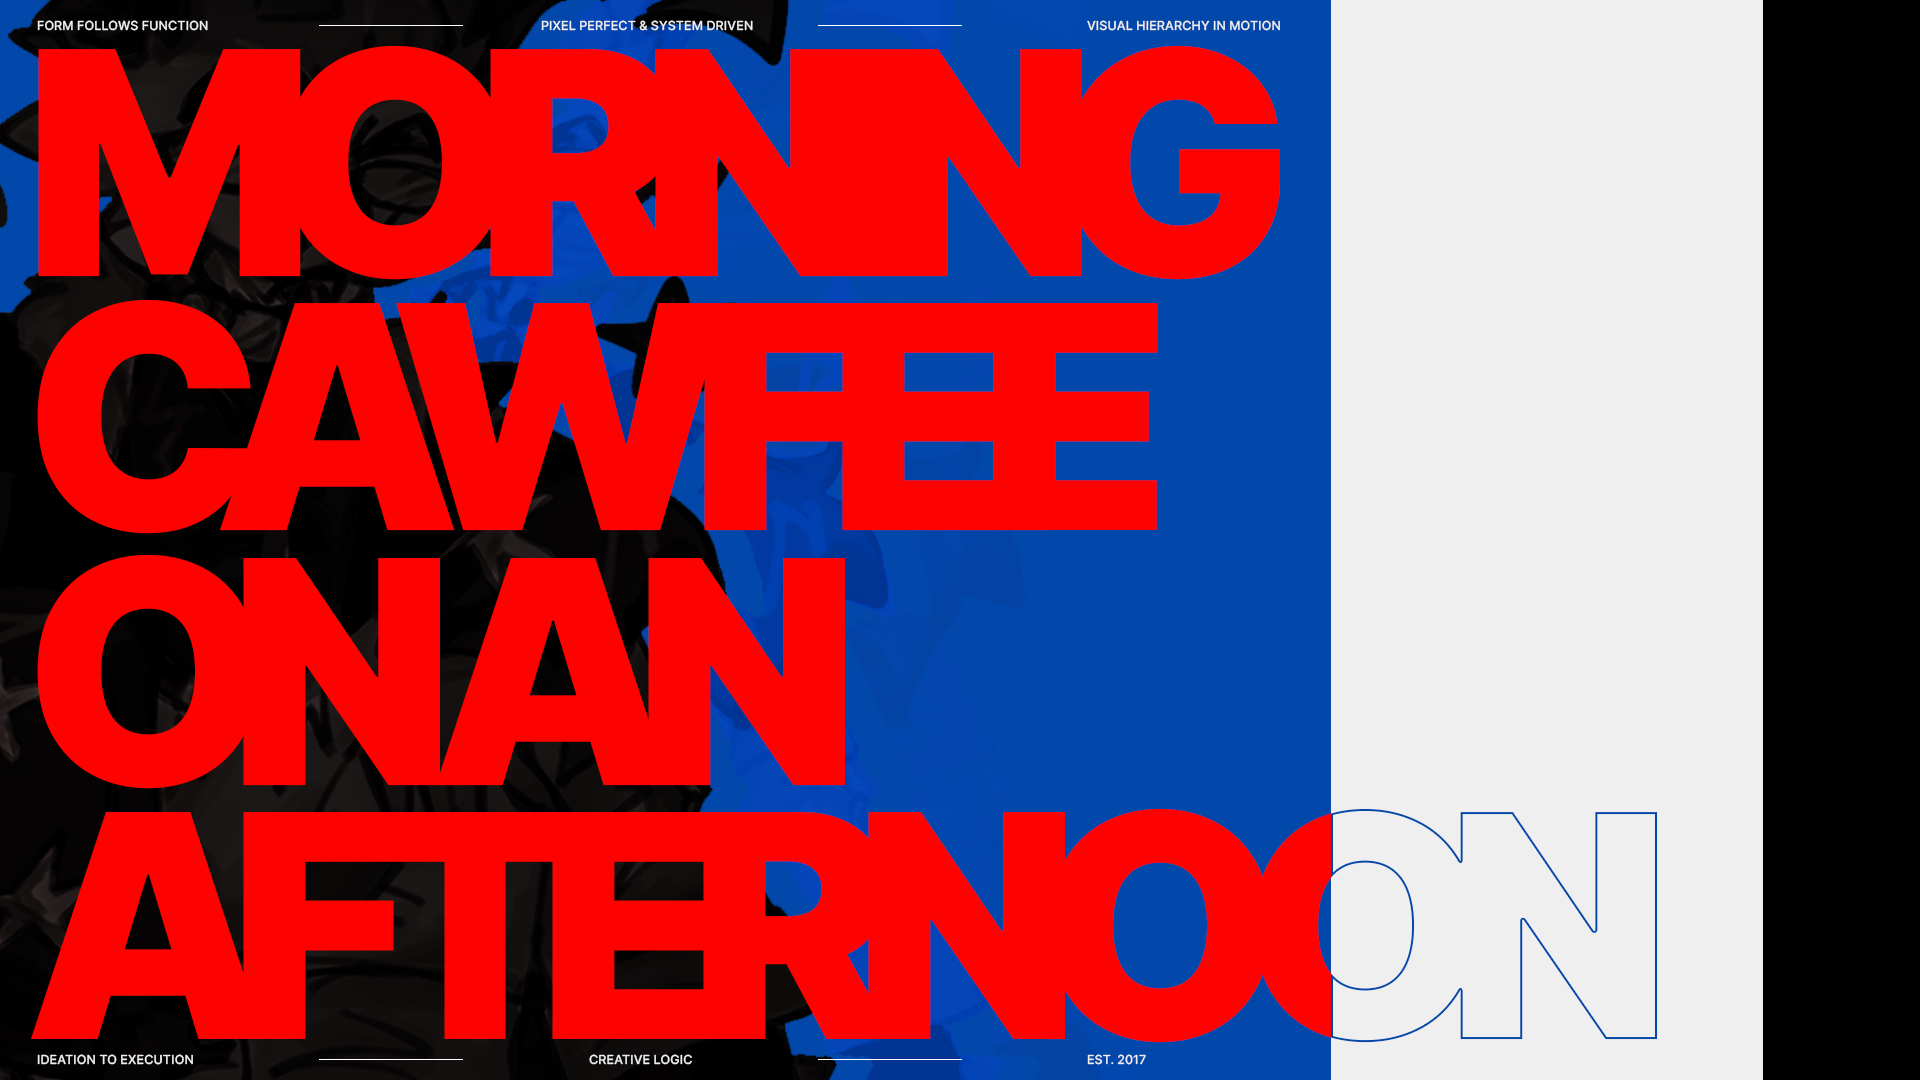
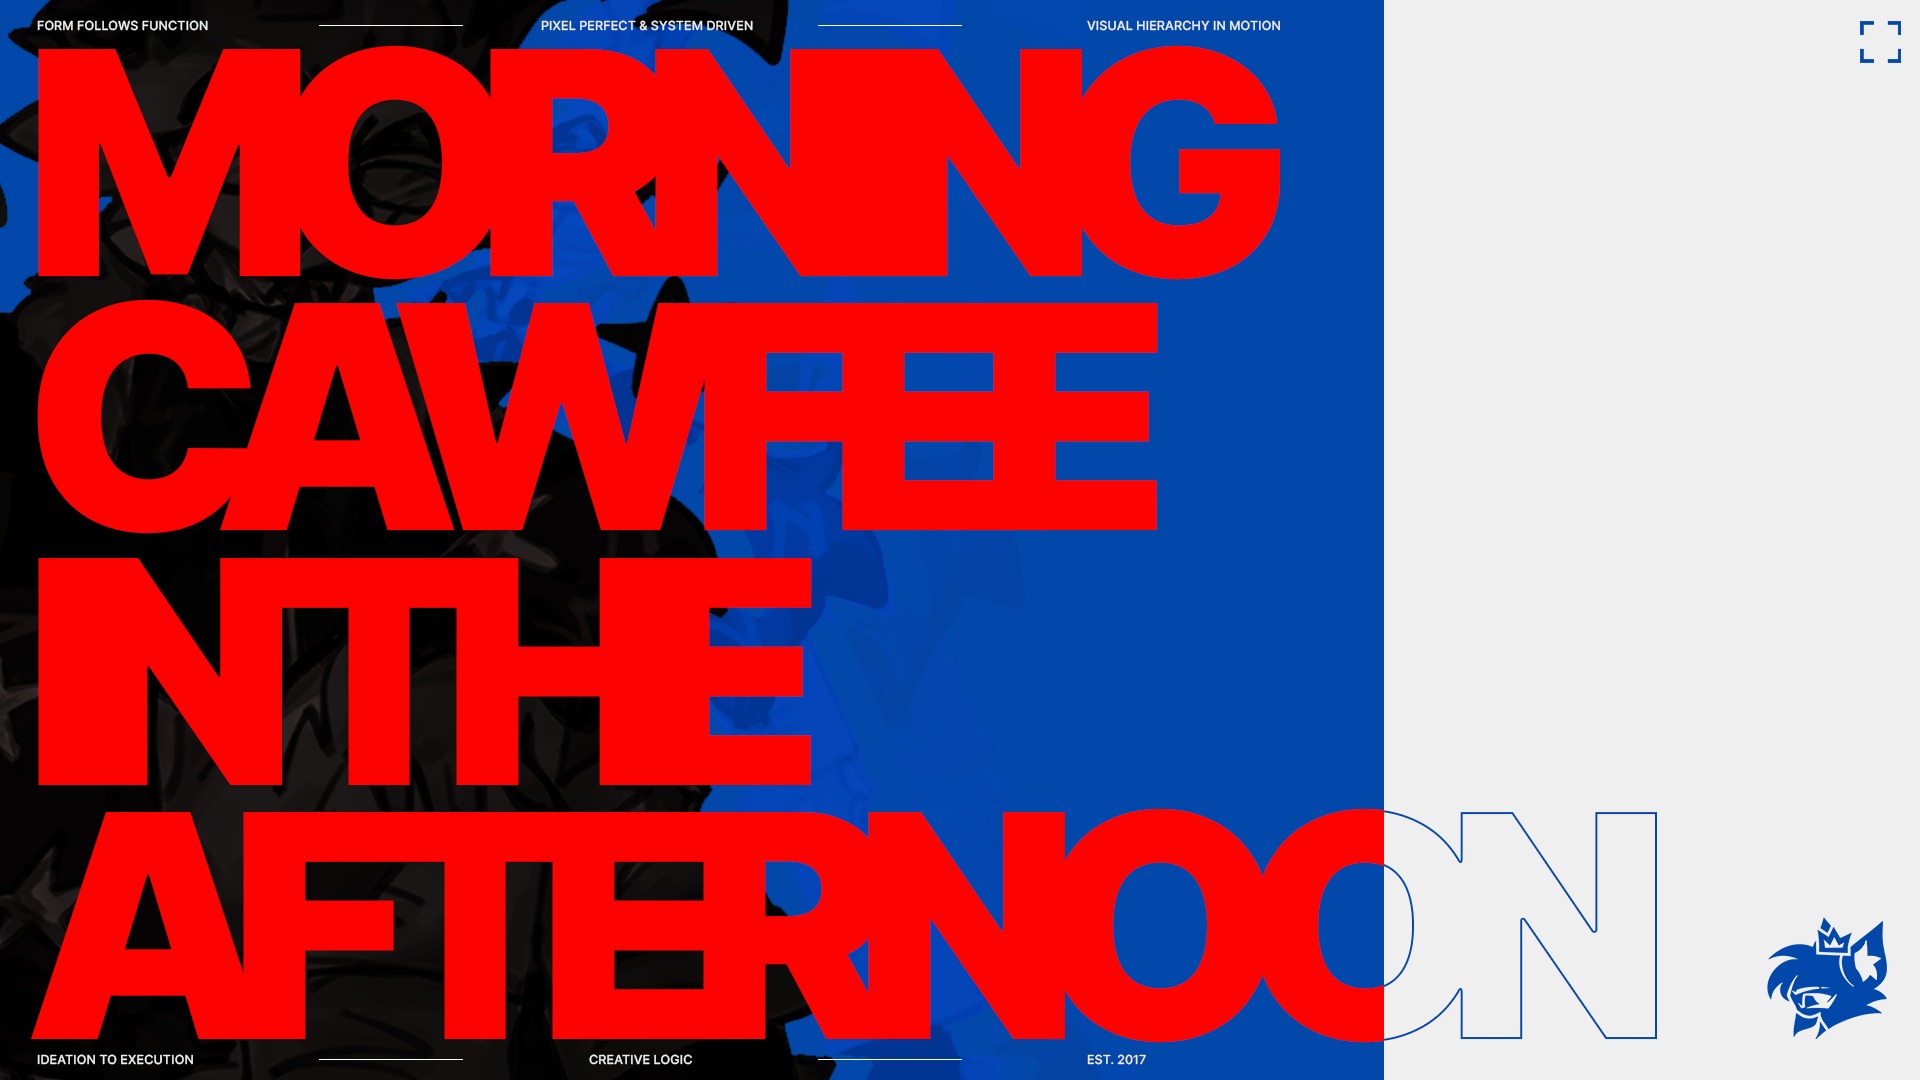
updating a few images

Changed region(s): [[0.9062, 0.0, 1.0, 1.0], [0.0, 0.4889, 0.4375, 0.7333], [0.6875, 0.0, 0.7188, 1.0]]

diff --git a/index.html b/index.html
@@ -63,7 +63,7 @@
 #mc-banner-title h2{font-family:'RMMono',monospace;font-size:40px;font-weight:500;color:#fff;margin:0;line-height:1.1;}
 
 /* Work section */
-#mc-work{width:100%;background:#1773d8;}
+#mc-work{width:100%;background:#1773d8;position:relative;overflow:visible;}
 #mc-work-inner{display:flex;flex-direction:column;align-items:stretch;gap:60px;width:100%;max-width:1200px;margin:0 auto;padding:100px 20px;box-sizing:border-box;}
 #mc-work-header{display:flex;flex-direction:row;align-items:flex-end;justify-content:space-between;width:100%;}
 #mc-work-header h2{font-family:'RMMono',monospace;font-size:40px;font-weight:800;color:#fff;margin:0;}
@@ -157,6 +157,9 @@ nav.framer-FygNn{display:none!important}
 .framer-n5owxb .framer-t9b48k p{font-size:13px!important;}
 .mc-work-grid-wrap{width:100%;height:100%;overflow-y:auto;padding:0;box-sizing:border-box;}
 .mc-logos-scroll{overflow-y:auto;max-height:563px;}
+.mc-logos-scroll::-webkit-scrollbar{width:12px;}
+.mc-logos-scroll::-webkit-scrollbar-track{background:black;}
+.mc-logos-scroll::-webkit-scrollbar-thumb{background:rgb(255 0 0);border-radius:2px;}
 .mc-work-grid{display:grid;grid-template-columns:repeat(4,1fr);gap:10px;}
 .mc-work-box{width:100%;aspect-ratio:1;border-radius:10px;display:flex;align-items:center;justify-content:center;overflow:hidden;}
 .mc-work-box img{max-width:70%;max-height:70%;object-fit:contain;transition:max-width 0.3s ease,max-height 0.3s ease;}
@@ -213,7 +216,7 @@ nav.framer-FygNn{display:none!important}
 .mc-folder-tab-area{flex-shrink:0;margin-bottom:-5px;}
 .mc-folder-tab{position:relative;display:inline-flex;align-items:center;background:none;border:none;padding:0;cursor:pointer;z-index:2;overflow:visible;}
 .mc-tab-img{display:block;width:485px;height:40px;object-fit:fill;}
-.mc-tab-label{position:absolute;left:35px;top:50%;transform:translateY(-50%);font-family:'RMMono',monospace;font-size:18px;font-weight:500;letter-spacing:0.06em;text-transform:uppercase;color:rgba(255,255,255,0.3);white-space:nowrap;pointer-events:none;z-index:3;transition:color 0.2s;}
+.mc-tab-label{position:absolute;left:35px;top:50%;transform:translateY(-50%);font-family:'RMMono',monospace;font-size:20px;font-weight:800;letter-spacing:0.1em;text-transform:uppercase;color:rgba(255,255,255,0.3);white-space:nowrap;pointer-events:none;z-index:3;transition:color 0.2s;}
 .mc-folder-tab.active .mc-tab-label{color:#fff;}
 .mc-folder-tab:hover .mc-tab-label{color:rgba(255,255,255,0.65);}
 .mc-folder-body{flex:1;background:#000;border:1px solid rgb(49 49 49);border-radius:12px;padding:32px;box-sizing:border-box;overflow:hidden;}
@@ -233,7 +236,7 @@ nav.framer-FygNn{display:none!important}
 .mc-work-box:hover{transform:scale(1.04);}
 .mc-work-box img{max-width:70%;max-height:70%;object-fit:contain;}
 .mc-folder-banner-scroll{overflow-y:auto;height:900px;}
-.mc-folder-banner-scroll::-webkit-scrollbar{width:6px;}
+.mc-folder-banner-scroll::-webkit-scrollbar{width:12px;}
 .mc-folder-banner-scroll::-webkit-scrollbar-track{background:black;}
 .mc-folder-banner-scroll::-webkit-scrollbar-thumb{background:rgb(255 0 0);border-radius:2px;}
 .mc-folder-banner-track{display:flex;flex-direction:column;gap:12px;width:90%;margin:0 auto;}
@@ -241,6 +244,13 @@ nav.framer-FygNn{display:none!important}
 .mc-folder-banner-track img:hover{transform:scale(1.03);}
 
 html,body{background:#000;min-height:100%;scroll-behavior:smooth;}
+#mc-showcase{width:100%;padding:160px 0;}
+#mc-showcase-inner{width:100%;max-width:1200px;margin:0 auto;padding:0 20px;box-sizing:border-box;}
+#mc-showcase-card{width:100%;max-width:1200px;height:675px;border-radius:18px;background:url('./assets/backgrounds/bg-2.png') center/cover no-repeat;}
+/* Coco-sit character — adjust offsets and scale below */
+#mc-coco{position:absolute;top:var(--coco-y,0px);right:var(--coco-x,0px);transform:scale(var(--coco-scale,1));transform-origin:top right;z-index:10;pointer-events:none;}
+#mc-coco-sit{display:block;width:320px;height:auto;}
+#mc-coco-crown{position:absolute;top:-60px;left:50%;transform:translateX(-50%) rotate(-20deg);width:90px;height:auto;filter:drop-shadow(0 4px 8px rgba(0,0,0,0.4));animation:crown-float 2.2s ease-in-out infinite;}
 </style>
 </head>
 <body>
@@ -323,7 +333,7 @@ document.addEventListener("DOMContentLoaded",function(){
   window.addEventListener("resize",updateHeight);
   document.addEventListener("click",function(e){
     if(e.target.closest(".mc-back-top")){
-      var scroll=e.target.closest(".mc-folder-banner-scroll");
+      var scroll=e.target.closest(".mc-folder-banner-scroll,.mc-logos-scroll");
       if(scroll) scroll.scrollTo({top:0,behavior:"smooth"});
     }
   });
@@ -463,9 +473,15 @@ document.addEventListener("DOMContentLoaded",function(){
         <div class="mc-folder-tab-area" style="padding-left:140px">
           <button class="mc-folder-tab active"><img class="mc-tab-img" src="./assets/folder-menu/folder-tab-selected.png" alt=""><span class="mc-tab-label">Logos</span></button>
         </div>
-        <div class="mc-folder-body" id="mc-panel-logos"><div class="mc-logos-hint"><span class="mc-logos-hint-text">Scroll</span><img src="./assets/symbols/arrow-down.svg" class="mc-logos-hint-arrow" alt=""></div><div class="mc-logos-scroll"><div class="mc-work-grid"><div class="mc-work-box" style="background:#F97C94"><img src="./assets/logos/logo%20-%20akiroko.png" alt="akiroko"></div><div class="mc-work-box" style="background:#FC211B"><img src="./assets/logos/logo%20-%20ardolf.png" alt="ardolf"></div><div class="mc-work-box" style="background:#F19541"><img src="./assets/logos/logo%20-%20bam.png" alt="bam"></div><div class="mc-work-box" style="background:#0F5AF2"><img src="./assets/logos/logo%20-%20bluskys.png" alt="bluskys"></div><div class="mc-work-box" style="background:#F97C94"><img src="./assets/logos/logo%20-%20eggwick.png" alt="eggwick"></div><div class="mc-work-box" style="background:#FC211B"><img src="./assets/logos/logo%20-%20femtanyl.png" alt="femtanyl"></div><div class="mc-work-box" style="background:#F19541"><img src="./assets/logos/logo%20-%20filian.png" alt="filian"></div><div class="mc-work-box" style="background:#0F5AF2"><img src="./assets/logos/logo%20-%20fream.png" alt="fream"></div><div class="mc-work-box" style="background:#F97C94"><img src="./assets/logos/logo%20-%20frizk.png" alt="frizk"></div><div class="mc-work-box" style="background:#FC211B"><img src="./assets/logos/logo%20-%20grim.png" alt="grim"></div><div class="mc-work-box" style="background:#F19541"><img src="./assets/logos/logo%20-%20hexloom.png" alt="hexloom"></div><div class="mc-work-box" style="background:#0F5AF2"><img src="./assets/logos/logo%20-%20jadey.png" alt="jadey"></div><div class="mc-work-box" style="background:#F97C94"><img src="./assets/logos/logo%20-%20kuro.png" alt="kuro"></div><div class="mc-work-box" style="background:#FC211B"><img src="./assets/logos/logo%20-%20kwobus.png" alt="kwobus"></div><div class="mc-work-box" style="background:#F19541"><img src="./assets/logos/logo%20-%20limealicious.png" alt="limealicious"></div><div class="mc-work-box" style="background:#0F5AF2"><img src="./assets/logos/logo%20-%20mikki.png" alt="mikki"></div><div class="mc-work-box" style="background:#F97C94"><img src="./assets/logos/logo%20-%20natt.png" alt="natt"></div><div class="mc-work-box" style="background:#FC211B"><img src="./assets/logos/logo%20-%20nishi.png" alt="nishi"></div><div class="mc-work-box" style="background:#F19541"><img src="./assets/logos/logo%20-%20nyxifox.png" alt="nyxifox"></div><div class="mc-work-box" style="background:#0F5AF2"><img src="./assets/logos/logo%20-%20obey.png" alt="obey"></div><div class="mc-work-box" style="background:#F97C94"><img src="./assets/logos/logo%20-%20obnoctious.png" alt="obnoctious"></div><div class="mc-work-box" style="background:#FC211B"><img src="./assets/logos/logo%20-%20rebecca.png" alt="rebecca"></div><div class="mc-work-box" style="background:#F19541"><img src="./assets/logos/logo%20-%20shiro.png" alt="shiro"></div><div class="mc-work-box" style="background:#0F5AF2"><img src="./assets/logos/logo%20-%20signalvortex.png" alt="signalvortex"></div><div class="mc-work-box" style="background:#F97C94"><img src="./assets/logos/logo%20-%20sylvee.png" alt="sylvee"></div><div class="mc-work-box" style="background:#FC211B"><img src="./assets/logos/logo%20-%20traid.png" alt="traid"></div><div class="mc-work-box" style="background:#F19541"><img src="./assets/logos/logo%20-%20voidtag.png" alt="voidtag"></div></div></div></div>
+        <div class="mc-folder-body" id="mc-panel-logos"><div class="mc-logos-hint"><span class="mc-logos-hint-text">Scroll</span><img src="./assets/symbols/arrow-down.svg" class="mc-logos-hint-arrow" alt=""></div><div class="mc-logos-scroll"><div class="mc-work-grid"><div class="mc-work-box" style="background:#F97C94"><img src="./assets/logos/logo%20-%20akiroko.png" alt="akiroko"></div><div class="mc-work-box" style="background:#FC211B"><img src="./assets/logos/logo%20-%20ardolf.png" alt="ardolf"></div><div class="mc-work-box" style="background:#F19541"><img src="./assets/logos/logo%20-%20bam.png" alt="bam"></div><div class="mc-work-box" style="background:#0F5AF2"><img src="./assets/logos/logo%20-%20bluskys.png" alt="bluskys"></div><div class="mc-work-box" style="background:#F97C94"><img src="./assets/logos/logo%20-%20eggwick.png" alt="eggwick"></div><div class="mc-work-box" style="background:#FC211B"><img src="./assets/logos/logo%20-%20femtanyl.png" alt="femtanyl"></div><div class="mc-work-box" style="background:#F19541"><img src="./assets/logos/logo%20-%20filian.png" alt="filian"></div><div class="mc-work-box" style="background:#0F5AF2"><img src="./assets/logos/logo%20-%20fream.png" alt="fream"></div><div class="mc-work-box" style="background:#F97C94"><img src="./assets/logos/logo%20-%20frizk.png" alt="frizk"></div><div class="mc-work-box" style="background:#FC211B"><img src="./assets/logos/logo%20-%20grim.png" alt="grim"></div><div class="mc-work-box" style="background:#F19541"><img src="./assets/logos/logo%20-%20hexloom.png" alt="hexloom"></div><div class="mc-work-box" style="background:#0F5AF2"><img src="./assets/logos/logo%20-%20jadey.png" alt="jadey"></div><div class="mc-work-box" style="background:#F97C94"><img src="./assets/logos/logo%20-%20kuro.png" alt="kuro"></div><div class="mc-work-box" style="background:#FC211B"><img src="./assets/logos/logo%20-%20kwobus.png" alt="kwobus"></div><div class="mc-work-box" style="background:#F19541"><img src="./assets/logos/logo%20-%20limealicious.png" alt="limealicious"></div><div class="mc-work-box" style="background:#0F5AF2"><img src="./assets/logos/logo%20-%20mikki.png" alt="mikki"></div><div class="mc-work-box" style="background:#F97C94"><img src="./assets/logos/logo%20-%20natt.png" alt="natt"></div><div class="mc-work-box" style="background:#FC211B"><img src="./assets/logos/logo%20-%20nishi.png" alt="nishi"></div><div class="mc-work-box" style="background:#F19541"><img src="./assets/logos/logo%20-%20nyxifox.png" alt="nyxifox"></div><div class="mc-work-box" style="background:#0F5AF2"><img src="./assets/logos/logo%20-%20obey.png" alt="obey"></div><div class="mc-work-box" style="background:#F97C94"><img src="./assets/logos/logo%20-%20obnoctious.png" alt="obnoctious"></div><div class="mc-work-box" style="background:#FC211B"><img src="./assets/logos/logo%20-%20rebecca.png" alt="rebecca"></div><div class="mc-work-box" style="background:#F19541"><img src="./assets/logos/logo%20-%20shiro.png" alt="shiro"></div><div class="mc-work-box" style="background:#0F5AF2"><img src="./assets/logos/logo%20-%20signalvortex.png" alt="signalvortex"></div><div class="mc-work-box" style="background:#F97C94"><img src="./assets/logos/logo%20-%20sylvee.png" alt="sylvee"></div><div class="mc-work-box" style="background:#FC211B"><img src="./assets/logos/logo%20-%20traid.png" alt="traid"></div><div class="mc-work-box" style="background:#F19541"><img src="./assets/logos/logo%20-%20voidtag.png" alt="voidtag"></div></div><div class="mc-back-top"><img src="./assets/symbols/arrow-down.svg" class="mc-logos-hint-arrow mc-arrow-up" alt=""><span class="mc-logos-hint-text">Back to top</span></div></div></div>
       </div>
     </div>
+  </div>
+
+  <!-- Coco-sit: adjust --coco-x (right offset), --coco-y (top offset), --coco-scale in the style attr -->
+  <div id="mc-coco" style="--coco-x:0px;--coco-y:0px;--coco-scale:1">
+    <img id="mc-coco-crown" src="./assets/icons/icon-crown.png" alt="" aria-hidden="true">
+    <img id="mc-coco-sit" src="./assets/coco-sit.png" alt="Coco sitting">
   </div>
 </section>
 			
@@ -841,6 +857,12 @@ document.addEventListener("DOMContentLoaded",function(){
     </div>
   </div>
 </section>
+<section id="mc-showcase">
+  <div id="mc-showcase-inner">
+    <div id="mc-showcase-card"></div>
+  </div>
+</section>
+
 <footer id="mc-footer">
   <div id="mc-footer-inner">
     <div class="mc-footer-left">
